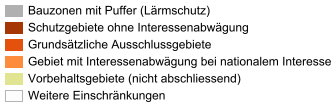
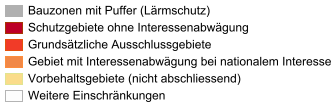
change legend colours

Changed region(s): [[0.0, 0.3645, 0.0893, 0.4766], [0.0, 0.6729, 0.0893, 0.785], [0.0, 0.1963, 0.0893, 0.3084]]

diff --git a/chsdi/static/less/extended.less b/chsdi/static/less/extended.less
@@ -91,24 +91,24 @@ body {
         }
       }
       .wind_kbik_1 {
-        background-color: #B0B0B0 !important;
+        background-color: rgb(176, 176, 176) !important;
         width: 14px;
         margin: 2px 0px 0px 0px;
       }
       .wind_kbik_2 {
-        background-color: #A63603 !important;
+        background-color: rgb(189, 0, 38) !important;
       }
       .wind_kbik_3 {
-        background-color: #E4510C !important;
+        background-color: rgb(241, 59, 40) !important;
       }
       .wind_kbik_4 {
-        background-color: #FD8D3C !important;
+        background-color: rgb(241, 136, 71) !important;
       }
       .wind_kbik_5 {
-        background-color: #E1E490 !important;
+        background-color: rgb(250, 220, 138) !important;
       }
       .wind_kbik_6 {
-        background-color: #FFFFFF !important;
+        background-color: rgb(255, 255, 255) !important;
         width: 14px;
         margin: 2px 10px 0px 0px;
       }
